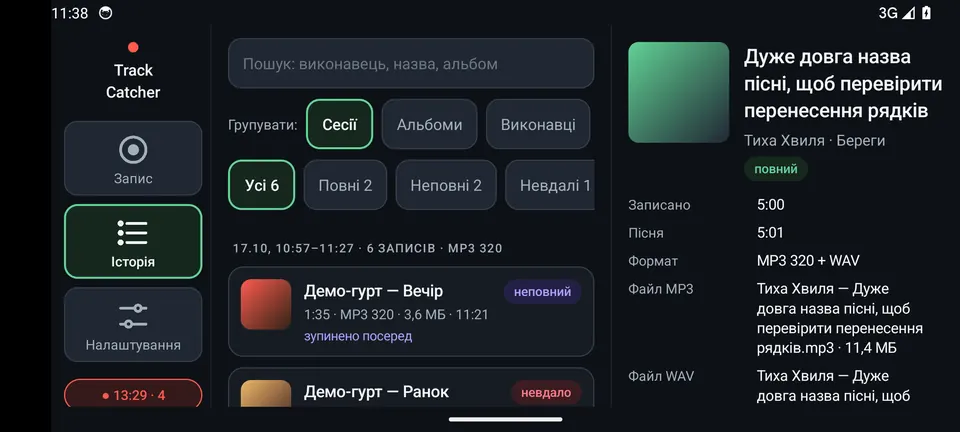
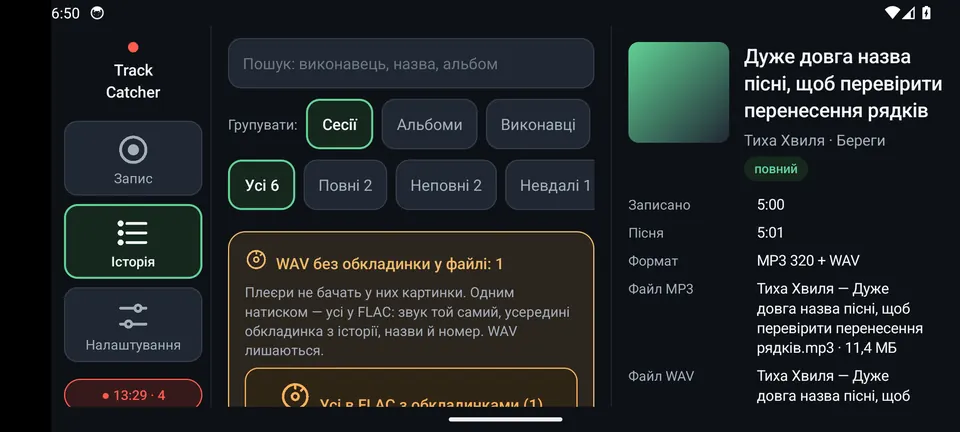
v0.1.30: WAV → FLAC з обкладинками одним натиском (T69) (#72)
* v0.1.30: WAV → FLAC з обкладинками одним натиском — усі, сесія, вибрані (T69)

Claude-Session: https://claude.ai/code/session_01JRv89KPAUK5XBY9DR7pCPo

* Інструкція: знімки 0.1.30 (картка «Усі в FLAC»)

Claude-Session: https://claude.ai/code/session_01JRv89KPAUK5XBY9DR7pCPo

---------

Changed region(s): [[0.2188, 0.5116, 0.625, 0.963], [0.0625, 0.0, 0.125, 0.0602], [0.9062, 0.0, 0.9375, 0.0602]]

diff --git a/android/app/src/main/java/ua/faric/trackcatcher/ui/HistoryScreen.kt b/android/app/src/main/java/ua/faric/trackcatcher/ui/HistoryScreen.kt
@@ -198,6 +198,11 @@ class HistoryScreen(host: MainActivity, state: Bundle?) : Screen(host) {
             13f,
         ))
         val actions = FlowLayout(host, ui.dp(8), ui.dp(8))
+        val pickedWavs = picked.mapNotNull { all[it] }.filter { isWav(it) }
+        if (pickedWavs.isNotEmpty()) actions.addView(ui.iconButton(LineIcon.DISC, "У FLAC з обкладинками (${pickedWavs.size})", Ui.Kind.PRIMARY) {
+            clearPicked()
+            confirmMakeFlac(pickedWavs.sortedBy { it.createdAt })
+        })
         actions.addView(ui.button("Видалити (${picked.size})", Ui.Kind.DANGER) { confirmDeleteMany() })
         if (rows.any { it.id !in picked }) actions.addView(ui.button("Вибрати всі видимі", Ui.Kind.NORMAL) {
             rows.forEach { picked += it.id }
@@ -272,13 +277,20 @@ class HistoryScreen(host: MainActivity, state: Bundle?) : Screen(host) {
                 ))
             }, ui.matchWrap())
         } else {
+            val allWavs = if (picked.isEmpty() && query.isBlank()) db.list(null, "", limit = Int.MAX_VALUE).filter { isWav(it) } else emptyList()
+            if (allWavs.isNotEmpty()) list.addView(ui.card(8, fill = Palette.warningFill, stroke = Palette.warning).apply {
+                addView(ui.text(ui.iconText(LineIcon.DISC, "WAV без обкладинки у файлі: ${allWavs.size}", Palette.warning, LineIcon.LABEL_DP - 6), 15f, Palette.warning, medium = true))
+                addView(ui.muted("Плеєри не бачать у них картинки. Одним натиском — усі у FLAC: звук той самий, усередині обкладинка з історії, назви й номер. WAV лишаються.", 13.5f))
+                addView(ui.iconButton(LineIcon.DISC, "Усі в FLAC з обкладинками (${allWavs.size})", Ui.Kind.PRIMARY) { confirmMakeFlac(allWavs.sortedBy { it.createdAt }) }, ui.matchWrap())
+                addView(ui.muted("Або по частинах: кнопка в шапці сесії чи альбому, або довге натискання на плитку — вибрати кілька.", 12.5f))
+            }, ui.matchWrap())
             if (group == Group.SESSIONS) {
                 val sessions = db.sessions()
                 var currentSession = -1L
                 for (r in rows) {
                     if (r.sessionId != currentSession) {
                         currentSession = r.sessionId
-                        list.addView(sessionHeader(sessions[r.sessionId], rows.count { it.sessionId == r.sessionId }), ui.matchWrap())
+                        list.addView(sessionHeader(sessions[r.sessionId], rows.filter { it.sessionId == r.sessionId }), ui.matchWrap())
                     }
                     list.addView(rowView(r), ui.matchWrap())
                 }
@@ -398,7 +410,8 @@ class HistoryScreen(host: MainActivity, state: Bundle?) : Screen(host) {
         reload()
     }
 
-    private fun sessionHeader(s: SessionRow?, count: Int): View {
+    private fun sessionHeader(s: SessionRow?, members: List<RecordingRow>): View {
+        val count = members.size
         val text = if (s == null) {
             "Сесія"
         } else {
@@ -409,7 +422,14 @@ class HistoryScreen(host: MainActivity, state: Bundle?) : Screen(host) {
                 if (s.formatLabel.isNotBlank()) append(" · ").append(s.formatLabel)
             }
         }
-        return ui.numbers(ui.label(text)).apply { setPadding(ui.dp(4), ui.dp(8), ui.dp(4), 0) }
+        val label = ui.numbers(ui.label(text)).apply { setPadding(ui.dp(4), ui.dp(8), ui.dp(4), 0) }
+        // T69 (faric 17.10 21:45: «по одній — бажання нема»): уся сесія одним натиском.
+        val wavs = members.filter { isWav(it) }
+        if (wavs.isEmpty() || picked.isNotEmpty()) return label
+        return ui.column(6).apply {
+            addView(label)
+            addView(ui.iconButton(LineIcon.DISC, "Сесію в FLAC з обкладинками (${wavs.size})", Ui.Kind.NORMAL) { confirmMakeFlac(wavs) })
+        }
     }
 
     private fun rowView(r: RecordingRow): View {
@@ -788,7 +808,8 @@ class HistoryScreen(host: MainActivity, state: Bundle?) : Screen(host) {
         val box = ui.column(12).apply {
             addView(ui.title("Роблю FLAC з обкладинками", 19f))
             addView(progressText)
-            addView(ui.muted("Можна згорнути застосунок — робота йде далі. Не закривай його зовсім.", 13f))
+            addView(ui.muted("Не згортай застосунок до кінця — екран сам не згасне. Перервалось? Натисни ту саму кнопку ще раз: зроблені вже пропускаються.", 13f))
+            keepScreenOn = true
         }
         host.overlay.show("makeflac:run", box, dismissOnOutside = false)
         val app = host.applicationContext

diff --git a/android/app/src/main/assets/guide/index.html b/android/app/src/main/assets/guide/index.html
@@ -334,7 +334,7 @@ details > div{padding:0 0 12px; color:var(--muted)}
 
   <div class="foot">
     <p>Записи лишаються на телефоні й нікуди не передаються. Інтернет — лише для перевірки оновлень з Google Диска автора. Без реклами й аналітики. Для особистого користування.</p>
-    <p class="mono">Track Catcher 0.1.29 · github.com/faric-ua/faric-track-catcher</p>
+    <p class="mono">Track Catcher 0.1.30 · github.com/faric-ua/faric-track-catcher</p>
   </div>
 </main>
 
@@ -719,7 +719,15 @@ details > div{padding:0 0 12px; color:var(--muted)}
   <h3>Про файл: що насправді всередині</h3>
   <p>«Історія» → запис → <span class="btn norm">Про файл</span>. Track Catcher читає сам файл і показує по групах: обкладинку (<b>«Обкладинка є у файлі»</b> або <b>«У файлі обкладинки нема»</b>), «Що бачить плеєр» (поля, яких нема, — «— нема»), «Звук», «Гучність», «Як записано», «Файл» і «Усі теги у файлі» — повний список, навіть те, що дописав інший застосунок (напр. Audio Converter). <span class="btn norm">Копіювати все</span> — текстом, щоб надіслати.</p>
   <h3>Обкладинки для старих WAV</h3>
-  <p>У WAV обкладинки нема — тому плеєр і конвертер її не бачать. Але Track Catcher зберіг кожну обкладинку в історії, коли записував. <span class="btn norm">Зробити FLAC з обкладинкою</span> (у подробицях WAV-запису) або в шапці альбому <span class="btn norm">FLAC з обкладинками (N)</span> — для всього альбому одразу.</p>
+  <p>У WAV обкладинки нема — тому плеєр і конвертер її не бачать. Але Track Catcher зберіг кожну обкладинку в історії, коли записував. Не по одному — одним натиском:</p>
+  <div class="tbl kv"><table>
+    <tr><td class="k"><b>Усе одразу</b></td><td>Угорі «Історії» — жовта картка «WAV без обкладинки у файлі: N» → <span class="btn prim">Усі в FLAC з обкладинками (N)</span>.</td></tr>
+    <tr><td class="k"><b>Сесія</b></td><td>«Групувати: Сесії» → під датою сесії <span class="btn norm">Сесію в FLAC з обкладинками (N)</span>.</td></tr>
+    <tr><td class="k"><b>Альбом</b></td><td>«Групувати: Альбоми» → у шапці альбому <span class="btn norm">FLAC з обкладинками (N)</span>.</td></tr>
+    <tr><td class="k"><b>Вибрані</b></td><td>Довге натискання на плитку → торкнись інших → <span class="btn prim">У FLAC з обкладинками (N)</span>.</td></tr>
+    <tr><td class="k"><b>Один запис</b></td><td>Подробиці WAV-запису → <span class="btn norm">Зробити FLAC з обкладинкою</span>.</td></tr>
+  </table></div>
+  <p class="note">Поки йде робота, не згортай застосунок — екран сам не згасне. Перервалось — натисни ту саму кнопку ще раз: уже зроблені пропускаються.</p>
   <div class="grid2">
     <div class="panel"><h3>Що вийде</h3><p class="muted">FLAC поруч з WAV: звук той самий до біта, усередині — назва, виконавець, альбом, номер пісні, рік і обкладинка. В історії запис почне показувати FLAC.</p></div>
     <div class="panel"><h3>Що лишається</h3><p class="muted">WAV — на місці, нічого не видаляється. Під час запису кнопка не працює: перетворення вантажить телефон.</p></div>

diff --git a/docs/guide/guide.html b/docs/guide/guide.html
@@ -712,7 +712,15 @@ details > div{padding:0 0 12px; color:var(--muted)}
   <h3>Про файл: що насправді всередині</h3>
   <p>«Історія» → запис → <span class="btn norm">Про файл</span>. Track Catcher читає сам файл і показує по групах: обкладинку (<b>«Обкладинка є у файлі»</b> або <b>«У файлі обкладинки нема»</b>), «Що бачить плеєр» (поля, яких нема, — «— нема»), «Звук», «Гучність», «Як записано», «Файл» і «Усі теги у файлі» — повний список, навіть те, що дописав інший застосунок (напр. Audio Converter). <span class="btn norm">Копіювати все</span> — текстом, щоб надіслати.</p>
   <h3>Обкладинки для старих WAV</h3>
-  <p>У WAV обкладинки нема — тому плеєр і конвертер її не бачать. Але Track Catcher зберіг кожну обкладинку в історії, коли записував. <span class="btn norm">Зробити FLAC з обкладинкою</span> (у подробицях WAV-запису) або в шапці альбому <span class="btn norm">FLAC з обкладинками (N)</span> — для всього альбому одразу.</p>
+  <p>У WAV обкладинки нема — тому плеєр і конвертер її не бачать. Але Track Catcher зберіг кожну обкладинку в історії, коли записував. Не по одному — одним натиском:</p>
+  <div class="tbl kv"><table>
+    <tr><td class="k"><b>Усе одразу</b></td><td>Угорі «Історії» — жовта картка «WAV без обкладинки у файлі: N» → <span class="btn prim">Усі в FLAC з обкладинками (N)</span>.</td></tr>
+    <tr><td class="k"><b>Сесія</b></td><td>«Групувати: Сесії» → під датою сесії <span class="btn norm">Сесію в FLAC з обкладинками (N)</span>.</td></tr>
+    <tr><td class="k"><b>Альбом</b></td><td>«Групувати: Альбоми» → у шапці альбому <span class="btn norm">FLAC з обкладинками (N)</span>.</td></tr>
+    <tr><td class="k"><b>Вибрані</b></td><td>Довге натискання на плитку → торкнись інших → <span class="btn prim">У FLAC з обкладинками (N)</span>.</td></tr>
+    <tr><td class="k"><b>Один запис</b></td><td>Подробиці WAV-запису → <span class="btn norm">Зробити FLAC з обкладинкою</span>.</td></tr>
+  </table></div>
+  <p class="note">Поки йде робота, не згортай застосунок — екран сам не згасне. Перервалось — натисни ту саму кнопку ще раз: уже зроблені пропускаються.</p>
   <div class="grid2">
     <div class="panel"><h3>Що вийде</h3><p class="muted">FLAC поруч з WAV: звук той самий до біта, усередині — назва, виконавець, альбом, номер пісні, рік і обкладинка. В історії запис почне показувати FLAC.</p></div>
     <div class="panel"><h3>Що лишається</h3><p class="muted">WAV — на місці, нічого не видаляється. Під час запису кнопка не працює: перетворення вантажить телефон.</p></div>

diff --git a/TODO.md b/TODO.md
@@ -72,4 +72,4 @@
 | T66 | **jump3r на M30s (Android 11) може впасти посеред кодування MP3** — знахідка чату «GitHub Storage» на Audio Converter (16.10 12:28: `JNI ERROR global reference table overflow`, лавина JIT-завдань через крихітний static `PsyModel.NON_LINEAR_SCALE_ENERGY` у гарячому циклі, коли jump3r не скомпільовано після оновлення). Track Catcher бере той самий jump3r 1.0.5 з Maven. Падінь Track Catcher не бачили; з 0.1.21 типово FLAC (jump3r не працює). Варіанти: свій примірник jump3r з правкою, як у конвертері (`docs/jump3r-changes.patch` там); або на M30s після оновлення — Phone Diagnostics → 32 | ☐ записано — вирішити з faric, коли M30s писатиме MP3 |
 | T67 | **Автокопія історії й налаштувань у свій файл** (faric 17.10 15:53: «щоб інші люди не йшли в мій Google Диск і не синхронізували мою історію; хай кожен вказує, де зберігати, — додаток туди все складає, а потім звідти гребе»). Вхід у Google не потрібен: кожен телефон пише лише у файл, який сам вибрав. Кнопку «Опублікувати (автор)» **лишаємо** (faric 17.10 19:31: «хай буде»; безпечна — чужий APK не встановиться через підпис; запасний шлях роздачі) | ☑ v0.1.28 — **A26, скрін 17.10 19:31: «Увімкнено: track-catcher-avtokopiia.json · Остання копія 17.10 19:31»** (копія записалась; слова «пас» ще не було). Що робить: «Налаштування» → «Копія історії» → «Увімкнути автокопію» → файл у «Моїх файлах» або на Диску (☰ → «Диск»; папку на Диску Android не дає, файл — так). Оновлюється через 5 с після кожного запису й коли застосунок ховається. «Відновити з копії» пропонує повернути й налаштування (без своєї папки й плану «Цей запис») |
 | T68 | **Вікно «Про файл» — усі метадані красиво, по групах** (faric 17.10 20:23: «щоб відкрив файл — зразу показало і картинку, і хто виконує, і альбом, і все»; спільне з Audio Converter). Групи: обкладинка (є у файлі / нема) · «Що бачить плеєр» · Звук · Гучність · «Як записано» (лише TC) · Файл · «Усі теги у файлі» (усе, що є, — і поля, які допише конвертер). Макет — артефакт «Про файл — макет» (2 екрани). Читає сам файл, тож показує й чуже. Також нові теги з того, що TC знає: номер пісні в альбомі, виконавець альбому, рік | ☑ v0.1.29 — чекає телефона (faric 20:31: «так і зроби, щоб усі метадані були максимально»): «Історія» → запис → «Про файл» (читає сам файл: FLAC/MP3/WAV, обкладинка, групи, усі теги, «Копіювати все»). Нові теги: TRACKNUMBER/TRCK/ITRK (з «TRACK NN» або по порядку; BONUS — наступний), ALBUMARTIST/TPE2, DATE/TYER/ICRD. Для Audio Converter — `ui/FileInfoPanel.kt` + `core/FileTags.kt` (лише Ui/Palette) |
-| T69 | **Обкладинки для старих WAV** (faric 17.10 20:23: «інші альбоми писав у WAV — там не було картинки; як їх повернути?»). У WAV TC обкладинку не пише, але вона є в історії (`files/artwork`). Ідея: «Зробити FLAC з обкладинкою» → Audio Converter отримує файл **і** обкладинку з історії (зміна в обох застосунках; конвертер — A3 «обкладинку передати разом з файлом»). Також FLAC → конвертер → Poweramp «нема картинки» — з'ясувати вікном T68 (TC FLAC обкладинку має — перевірено ffmpeg і читачем конвертера) | ☑ v0.1.29 — чекає телефона: «Зробити FLAC з обкладинкою» (подробиці WAV-запису, «Про файл») і «FLAC з обкладинками (N)» у шапці альбому: FLAC поруч з WAV, звук до біта (`WavToFlac`, тест), теги + номер + обкладинка з історії; WAV лишається; в історії запис показує FLAC. Запасний шлях faric (повторно програти альбом у Suno й узяти обкладинку зі шторки) — якщо в історії обкладинки нема |
+| T69 | **Обкладинки для старих WAV** (faric 17.10 20:23: «інші альбоми писав у WAV — там не було картинки; як їх повернути?»). У WAV TC обкладинку не пише, але вона є в історії (`files/artwork`). Ідея: «Зробити FLAC з обкладинкою» → Audio Converter отримує файл **і** обкладинку з історії (зміна в обох застосунках; конвертер — A3 «обкладинку передати разом з файлом»). Також FLAC → конвертер → Poweramp «нема картинки» — з'ясувати вікном T68 (TC FLAC обкладинку має — перевірено ffmpeg і читачем конвертера) | ☑ v0.1.29 — чекає телефона: «Зробити FLAC з обкладинкою» (подробиці WAV-запису, «Про файл») і «FLAC з обкладинками (N)» у шапці альбому: FLAC поруч з WAV, звук до біта (`WavToFlac`, тест), теги + номер + обкладинка з історії; WAV лишається; в історії запис показує FLAC. Запасний шлях faric (повторно програти альбом у Suno й узяти обкладинку зі шторки) — якщо в історії обкладинки нема. **v0.1.30** (faric 21:45: «по одній — бажання нема»): жовта картка «Усі в FLAC з обкладинками (N)» угорі історії, кнопка в шапці сесії, «У FLAC з обкладинками (N)» для вибраних; екран не гасне, повтор пропускає зроблені |

diff --git a/STATUS.md b/STATUS.md
@@ -11,7 +11,7 @@
 
 ## Точка зупинки — 16.10 ~05:00 (faric відпочиває до завтра)
 
-**Стан:** **v0.1.29** (T68 «Про файл» + нові теги, T69 FLAC з обкладинкою зі старих WAV) — на телефоні ще ні; **v0.1.28** (T67 автокопія) — **на A26** (скрін 19:31: автокопія ввімкнена, копія записалась); **v0.1.27** (партія B: T62 плитка «Запис» у шторці, T63 мітка гучності — опція з трьома вікнами, T65 «Конвертер») і **v0.1.26** (T60 «через N хвилин», T61 групи в історії, T64 копія історії) — на телефоні ще ні; реліз **v0.1.25** (хвости T42, T43, T18) — на телефоні ще ні; **v0.1.24** — **на A26** (16.10 21:47, «хай буде так»); **v0.1.23** (T58 значки, свіжі знімки в інструкції) і **v0.1.22** (T57 нова інструкція) — на телефонах ще ні; 0.1.21 — T55 FLAC, T56 найновіший файл версії; у ній же T44, T53, T54 з 0.1.20. **A26 — 0.1.20**; **M30s — оновився з Диска** (16.10 04:56, найімовірніше до 0.1.20 — на Диску була 0.1.20; версію не уточнено). На Диску — один файл версії `1y8g6…` (0.1.20); старий — у кошику. Play Protect — «Усе одно встановити» (T50).
+**Стан:** **v0.1.30** (T69: усі WAV / сесія / вибрані — у FLAC одним натиском) — на телефоні ще ні; **v0.1.29** (T68 «Про файл» + нові теги, T69 FLAC з обкладинкою зі старих WAV) — на телефоні ще ні; **v0.1.28** (T67 автокопія) — **на A26** (скрін 19:31: автокопія ввімкнена, копія записалась); **v0.1.27** (партія B: T62 плитка «Запис» у шторці, T63 мітка гучності — опція з трьома вікнами, T65 «Конвертер») і **v0.1.26** (T60 «через N хвилин», T61 групи в історії, T64 копія історії) — на телефоні ще ні; реліз **v0.1.25** (хвости T42, T43, T18) — на телефоні ще ні; **v0.1.24** — **на A26** (16.10 21:47, «хай буде так»); **v0.1.23** (T58 значки, свіжі знімки в інструкції) і **v0.1.22** (T57 нова інструкція) — на телефонах ще ні; 0.1.21 — T55 FLAC, T56 найновіший файл версії; у ній же T44, T53, T54 з 0.1.20. **A26 — 0.1.20**; **M30s — оновився з Диска** (16.10 04:56, найімовірніше до 0.1.20 — на Диску була 0.1.20; версію не уточнено). На Диску — один файл версії `1y8g6…` (0.1.20); старий — у кошику. Play Protect — «Усе одно встановити» (T50).
 **Пас 17.10:** **T43 — сповіщення не потрапляє в запис** (A26, 14:25). **Пас за 14–16.10:** **оновлення з Диска на іншому телефоні — повністю (T45, M30s 04:56)**; оновлення з Диска — публікація й «Перевірити оновлення»; T36; плеєр T48/T49 повністю; шторка; T51 вікно не стрибає; T52 значки; публікація 0.1.19 на Диск (SHA = реліз).
 **Завтра почати з (по одному кроку):**
 1. **A26:** `Track Catcher → 2` → 0.1.21 → «Налаштування» → «Формат файлів» → **FLAC** (вибране раніше MP3 само не міняється) → записати 2–3 пісні → «Історія»: «FLAC», розмір, плеєр грає; файл відкривається в іншому плеєрі з назвою й обкладинкою (T55).
@@ -277,3 +277,6 @@ T62 плитка в шторці, T63 мітка гучності (лише те
 
 ### 2026-10-17 19:51–20:31 — «де губиться обкладинка?» → T68, T69, v0.1.29
 faric: після Track Catcher і конвертера Poweramp не показує обкладинку. Перевірено кодом: FLAC від TC обкладинку має (ffmpeg бачить attached_pic), читач конвертера її бере байт у байт. Скрін 20:23: старі альбоми писались у **WAV** — обкладинки там нема (WAV її не тримає), а в історії вона є. Макет «Про файл» показано; faric 20:31: «так і зроби, щоб усі метадані максимально; номер — порядковий (TRACK 01, BONUS 01)». Зроблено T68 і T69 (v0.1.29). Невідомо: у якому файлі Poweramp не бачив обкладинку (FLAC від TC чи після конвертера) — покаже «Про файл».
+
+### 2026-10-17 21:00–21:45 — альбоми на M30s; «по одній — бажання нема» → v0.1.30
+faric: альбоми записує й конвертує на старому телефоні (M30s), на A26 лише працює → перетворення робиться на M30s (там історія з обкладинками). Шлях: A26 0.1.29 → «Опублікувати на Диск» → M30s «Перевірити оновлення». faric не хоче тикати по одному (не помітив кнопку в шапці альбому) → v0.1.30: картка «Усі в FLAC з обкладинками (N)» угорі історії, кнопка в шапці кожної сесії, дія для вибраних.

diff --git a/docs/PROJECT_LEDGER.md b/docs/PROJECT_LEDGER.md
@@ -29,6 +29,14 @@
 
 ---
 
+## v0.1.30 / build 31 — WAV → FLAC одним натиском: усі, сесія, вибрані (T69) — 2026-10-17
+
+**Що хотів faric.** «Я що, по одному файлику буду тикати? Давай фільтр по днях, по сесіях — вибираєш скільки файлів, і всі перегнати з WAV у FLAC і переробити метадані. По одній — бажання взагалі нема».
+
+**Урок.** Кнопка для альбому вже була, але в групі «Альбоми» — faric дивиться історію сесіями й її не побачив. Масова дія має бути там, де людина вже дивиться: (1) жовта картка вгорі історії — «WAV без обкладинки: N» → усі одразу; (2) під датою кожної сесії; (3) для вибраних довгим натисканням (той самий вибір, що й для видалення, T38). Довга робота на M30s: екран не гасне (`keepScreenOn`), а повтор пропускає вже зроблені (запис після перетворення вже не WAV) — переривання не страшне.
+
+**Чим довели (поки).** Python-контракти, аудити; збірка — CI. Телефон — пізніше (на M30s).
+
 ## v0.1.29 / build 30 — «Про файл» і нові теги (T68), FLAC з обкладинкою зі старих WAV (T69) — 2026-10-17
 
 **Що хотів faric.** «Після Track Catcher і конвертера плеєр (Poweramp) каже, що нема картинки — де вона губиться?» → «Старі альбоми писав у WAV — як повернути картинки?» → «Допиши і в конвертер, і в Track Catcher повний перегляд метаданих файлу, красиво згруповано» → (після макета) «так і зроби, щоб усі метадані були максимально записані; номер — порядковий».
